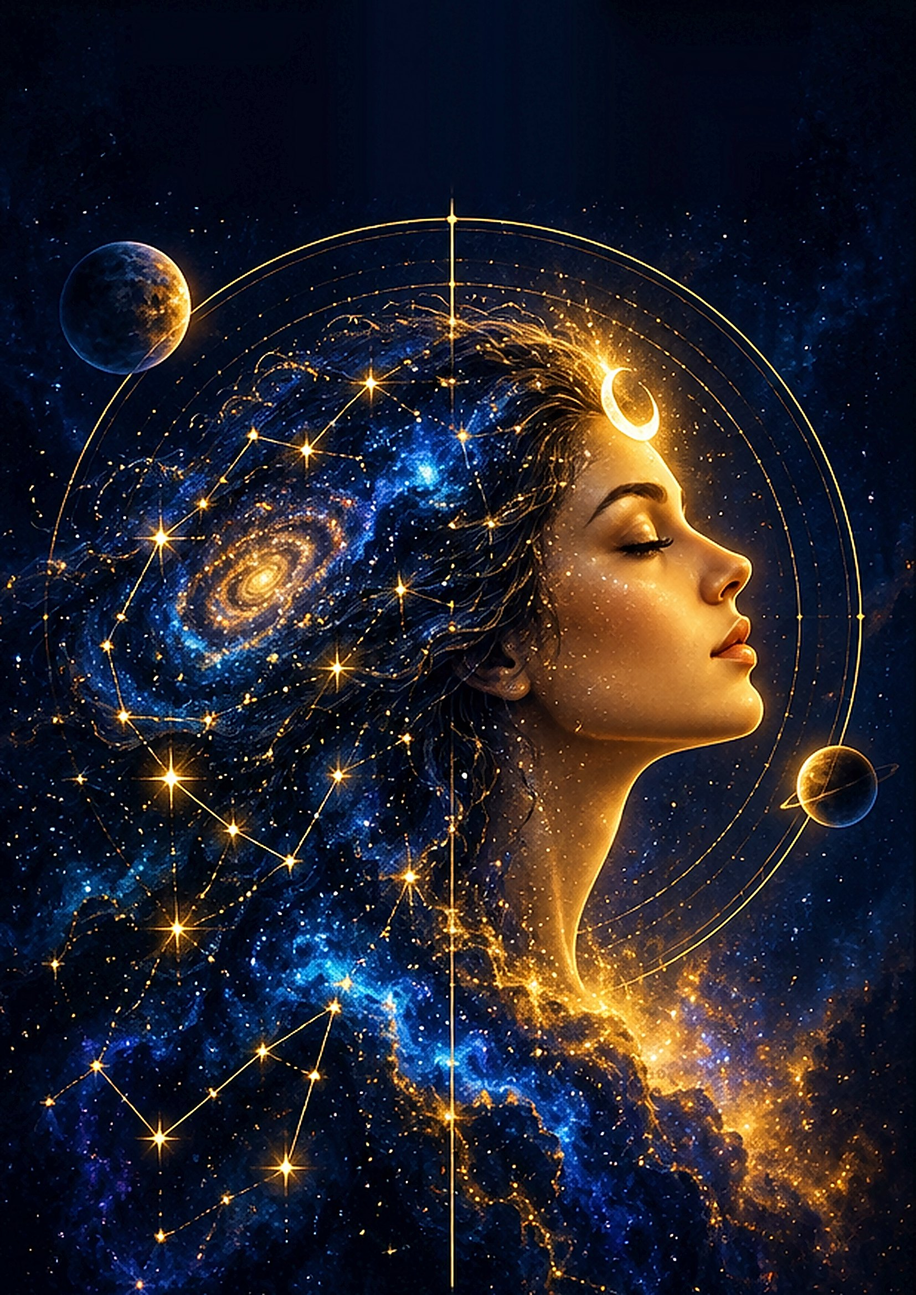
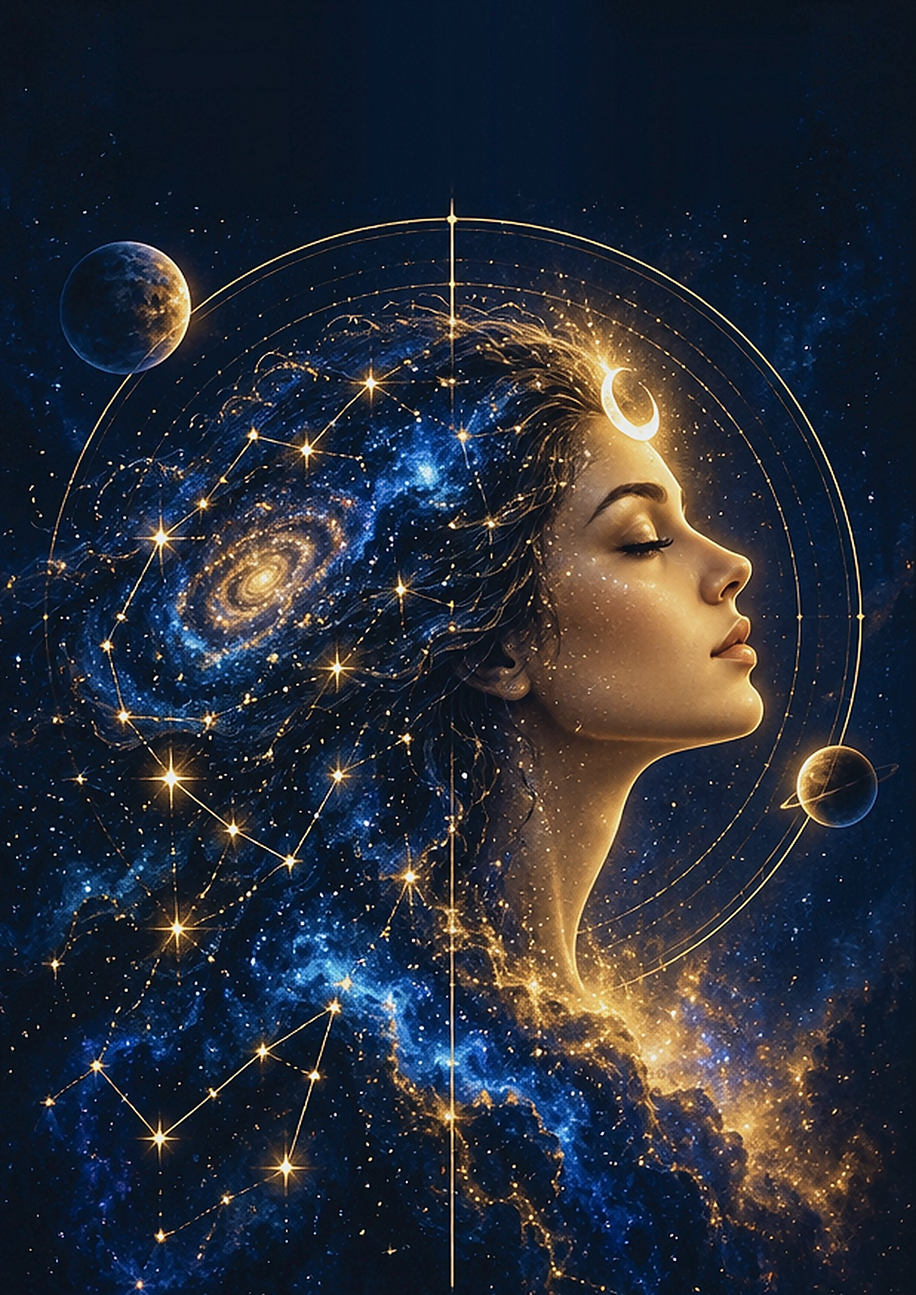
Round 3e: originals colour-matched to the book's other openers
Claude-Session: https://claude.ai/code/session_01TajgMe4WgAiLq68tE4NK1s

diff --git a/tools/use_originals.py b/tools/use_originals.py
@@ -13,6 +13,7 @@ import json
 import sys
 from pathlib import Path
 
+import cv2
 import numpy as np
 from PIL import Image
 
@@ -30,12 +31,26 @@ SPEC = {
 }
 
 
+def match_colour(img: Image.Image, ref_path: Path) -> Image.Image:
+    """Give the original the colour grading of the book's other openers (mean and spread of L, a, b match the reference)."""
+    src = cv2.cvtColor(np.array(img), cv2.COLOR_RGB2LAB).astype(np.float32)
+    ref = cv2.cvtColor(np.array(Image.open(ref_path).convert("RGB")), cv2.COLOR_RGB2LAB).astype(np.float32)
+    for c in range(3):
+        ms, ss = src[..., c].mean(), src[..., c].std() + 1e-6
+        mr, sr = ref[..., c].mean(), ref[..., c].std()
+        src[..., c] = (src[..., c] - ms) * (sr / ss) + mr
+    return Image.fromarray(cv2.cvtColor(np.clip(src, 0, 255).astype(np.uint8), cv2.COLOR_LAB2RGB))
+
+
 def main() -> int:
     titles_path = ROOT / "report" / "data" / "chapter_titles.json"
     titles = json.loads(titles_path.read_text(encoding="utf-8"))
     for n, s in SPEC.items():
         src = ROOT / "art_originals" / f"ch{n:02d}_original.png"
         im = Image.open(src).convert("RGB").crop(s["crop"]).resize(PAGE, Image.LANCZOS)
+        ref = ROOT / "art_originals" / "color_ref" / f"ch{n:02d}.jpg"
+        if ref.exists():
+            im = match_colour(im, ref)
         rgb = np.array(im)
         for _ in range(s.get("passes", 1)):
             for (x0, y0, x1, y1) in s["erase"]:
